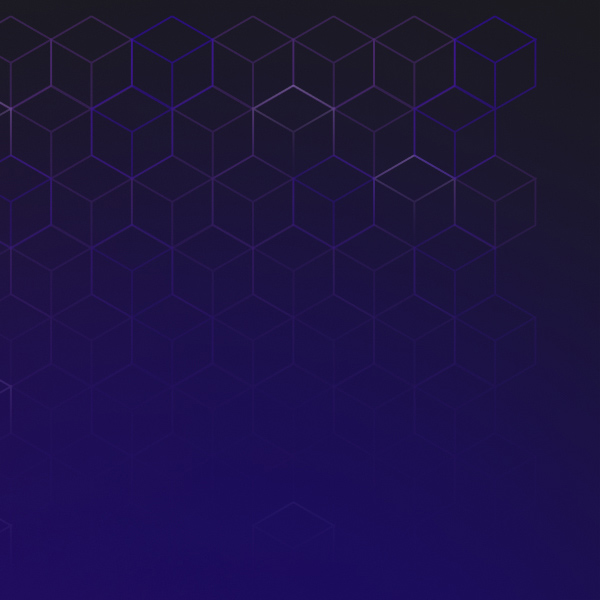
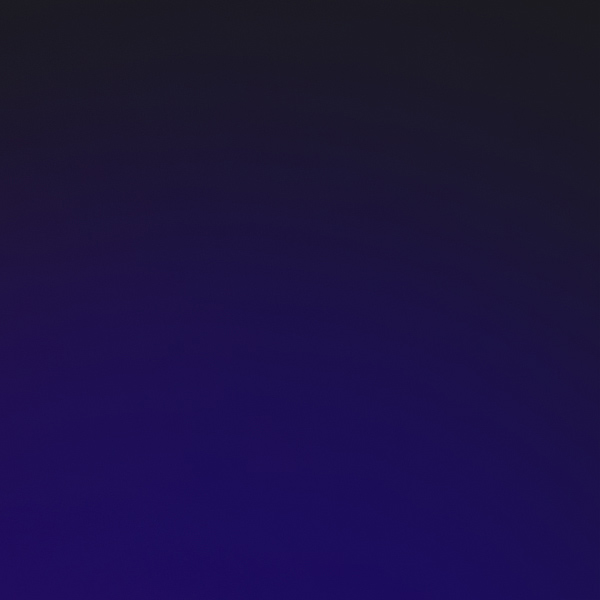
update one more thing images

diff --git a/apps/www/components/LaunchWeek/Releases/LW7/Day5.tsx b/apps/www/components/LaunchWeek/Releases/LW7/Day5.tsx
@@ -28,15 +28,15 @@ const getDay5Motion = (index: number) => {
 
 const getDay5omt01Motion = (index: number) => {
   switch (index) {
-    case 0:
-      return scaleOpacityVariant
+    case 2:
+      return opacityVariant4
     default:
       return undefined
   }
 }
 const getDay5omt02Motion = (index: number) => {
   switch (index) {
-    case 0:
+    case 2:
       return opacityVariant4
     default:
       return undefined
@@ -671,16 +671,19 @@ const Day5 = ({ day }: { day: WeekDayProps }) => {
               (layer, i) =>
                 !!layer.img && (
                   <motion.div
-                    className={['absolute inset-0 w-full h-full -z-10'].join(' ')}
+                    className={[
+                      'absolute inset-0 w-full h-full -z-10',
+                      i === 2 && '!mix-blend-overlay blur-2xl',
+                    ].join(' ')}
                     variants={getDay5omt01Motion(i)}
                   >
                     <Image
-                      src={!!layer.mobileImg && isTablet ? (layer.mobileImg as any) : layer.img}
+                      src={!!layer.mobileImg && isMobile ? (layer.mobileImg as any) : layer.img}
                       className={[`absolute w-full h-full -z-10 transition-all duration-300`].join(
                         ' '
                       )}
                       layout="fill"
-                      objectPosition={!!layer.mobileImg && isTablet ? '50% 50%' : '80% 50%'}
+                      objectPosition={!!layer.mobileImg && isMobile ? '50% 50%' : '80% 50%'}
                       objectFit="cover"
                       quality={100}
                     />
@@ -708,19 +711,22 @@ const Day5 = ({ day }: { day: WeekDayProps }) => {
               (layer, i) =>
                 !!layer.img && (
                   <motion.div
-                    className={['absolute inset-0 w-full h-full -z-10'].join(' ')}
+                    className={[
+                      'absolute inset-0 w-full h-full -z-10',
+                      i === 2 && '!mix-blend-overlay opacity-50 blur-2xl',
+                    ].join(' ')}
                     variants={getDay5omt02Motion(i)}
                   >
                     <Image
-                      src={!!layer.mobileImg && isTablet ? (layer.mobileImg as any) : layer.img}
+                      src={!!layer.mobileImg && isMobile ? (layer.mobileImg as any) : layer.img}
                       className={[`absolute w-full h-full -z-10 transition-all duration-300`].join(
                         ' '
                       )}
                       layout="fill"
                       objectPosition={
-                        i == 1 && !!layer.mobileImg && isTablet ? '50% 60%' : '80% 50%'
+                        i == 1 && !!layer.mobileImg && isMobile ? '50% 60%' : '80% 50%'
                       }
-                      objectFit={i == 1 && !!layer.mobileImg && isTablet ? 'contain' : 'cover'}
+                      objectFit={i == 1 && !!layer.mobileImg && isMobile ? 'contain' : 'cover'}
                       quality={100}
                     />
                   </motion.div>

diff --git a/apps/www/components/LaunchWeek/lw7_days.ts b/apps/www/components/LaunchWeek/lw7_days.ts
@@ -54,10 +54,12 @@ const images = {
   '05-omt-01-001': '/images/launchweek/seven/day5/one-more-thing/omt-01-01.jpg',
   '05-omt-01-001-mobile': '/images/launchweek/seven/day5/one-more-thing/omt-01-01-mobile.jpg',
   '05-omt-01-002': '/images/launchweek/seven/day5/one-more-thing/omt-01-02.png',
+  '05-omt-01-003': '/images/launchweek/seven/day5/one-more-thing/omt-01-03.png',
   '05-omt-01-002-mobile': '/images/launchweek/seven/day5/one-more-thing/omt-01-02-mobile.png',
   '05-omt-02-001': '/images/launchweek/seven/day5/one-more-thing/omt-02-01.jpg',
   '05-omt-02-001-mobile': '/images/launchweek/seven/day5/one-more-thing/omt-02-01-mobile.jpg',
   '05-omt-02-002': '/images/launchweek/seven/day5/one-more-thing/omt-02-02.png',
+  '05-omt-02-003': '/images/launchweek/seven/day5/one-more-thing/omt-02-03.png',
   '05-omt-02-002-mobile': '/images/launchweek/seven/day5/one-more-thing/omt-02-02-mobile.png',
   '05-omt-01-thumb': '/images/launchweek/seven/day5/one-more-thing/dbdev-thumb.jpg',
   '05-omt-02-thumb': '/images/launchweek/seven/day5/one-more-thing/pgTLE-thumb.jpg',
@@ -467,6 +469,9 @@ const days: WeekDayProps[] = [
                 img: images['05-omt-01-002'],
                 mobileImg: images['05-omt-01-002-mobile'],
               },
+              {
+                img: images['05-omt-01-003'],
+              },
             ],
             steps: [],
           },
@@ -483,6 +488,9 @@ const days: WeekDayProps[] = [
               {
                 img: images['05-omt-02-002'],
                 mobileImg: images['05-omt-02-002-mobile'],
+              },
+              {
+                img: images['05-omt-02-003'],
               },
             ],
             steps: [],
